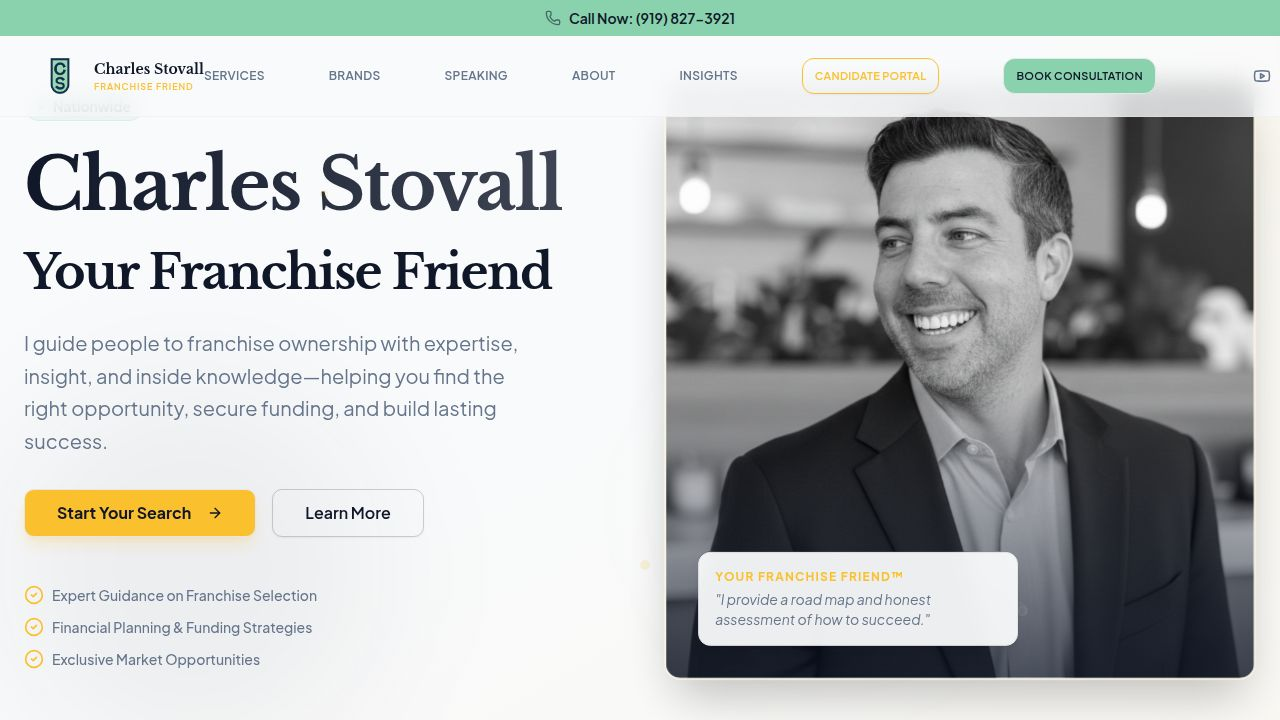
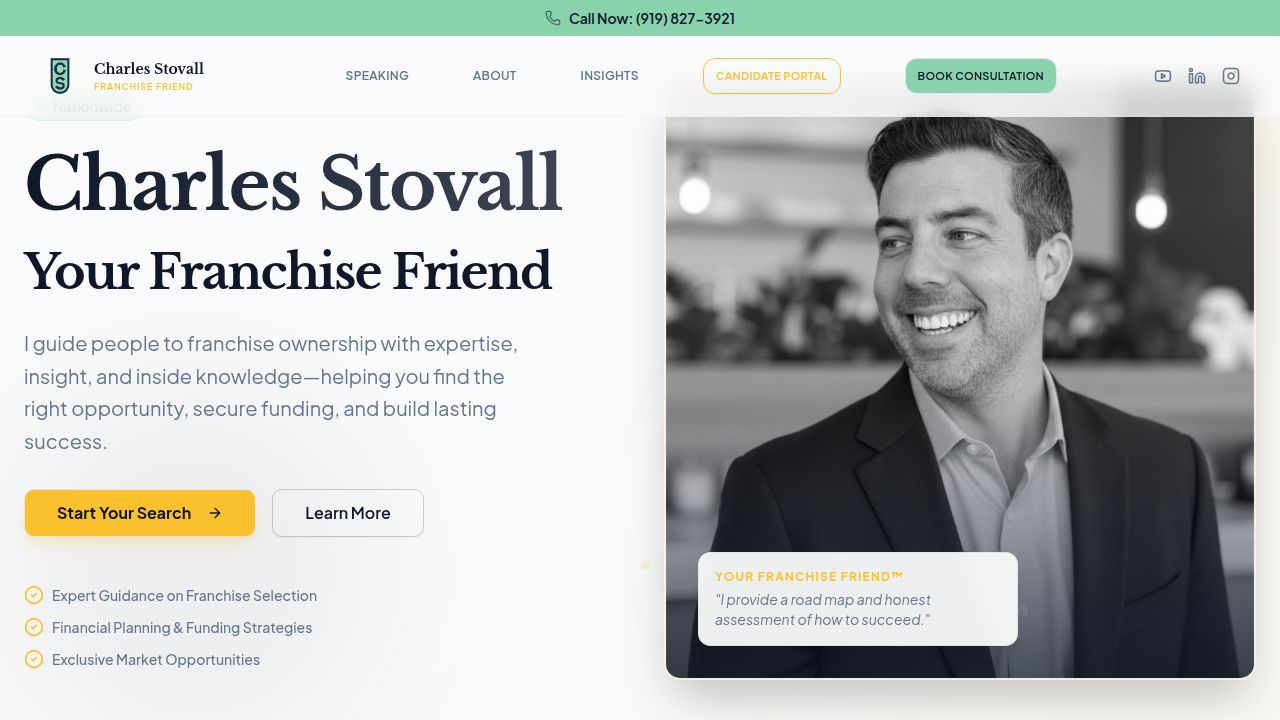
Update hero image and add a blue border for a new professional look
Replace the existing hero image with a new one and apply a navy blue border to the element in Hero.tsx.

Replit-Commit-Author: Agent
Replit-Commit-Session-Id: 4e91aaca-5b9b-480f-8afd-040988047014
Replit-Commit-Checkpoint-Type: full_checkpoint
Replit-Commit-Event-Id: 502e2e59-2099-498b-bd6f-a633fea15462
Replit-Commit-Screenshot-Url: https://storage.googleapis.com/screenshot-production-us-central1/515b29f0-1d64-4138-b143-4a5747dfb7ff/4e91aaca-5b9b-480f-8afd-040988047014/e9ReL3p

diff --git a/client/src/components/Hero.tsx b/client/src/components/Hero.tsx
@@ -1,7 +1,7 @@
 import { Button } from "@/components/ui/button";
 import { motion } from "framer-motion";
 import { ArrowRight, CheckCircle2 } from "lucide-react";
-import charlesPhoto from "@assets/charles-main-photo.png";
+import charlesPhoto from "@assets/ImageStudios_KDP-3_websize_1775530552090.jpg";
 
 
 export function Hero() {
@@ -76,7 +76,7 @@ export function Hero() {
           initial={{ opacity: 0, scale: 0.95 }}
           animate={{ opacity: 1, scale: 1 }}
           transition={{ duration: 0.8, delay: 0.2 }}
-          className="relative h-[600px] hidden md:block rounded-2xl overflow-hidden shadow-2xl border-2 border-secondary/10"
+          className="relative h-[600px] hidden md:block rounded-2xl overflow-hidden shadow-2xl border-4 border-[#1a2332]"
         >
           <img 
             src={charlesPhoto} 
